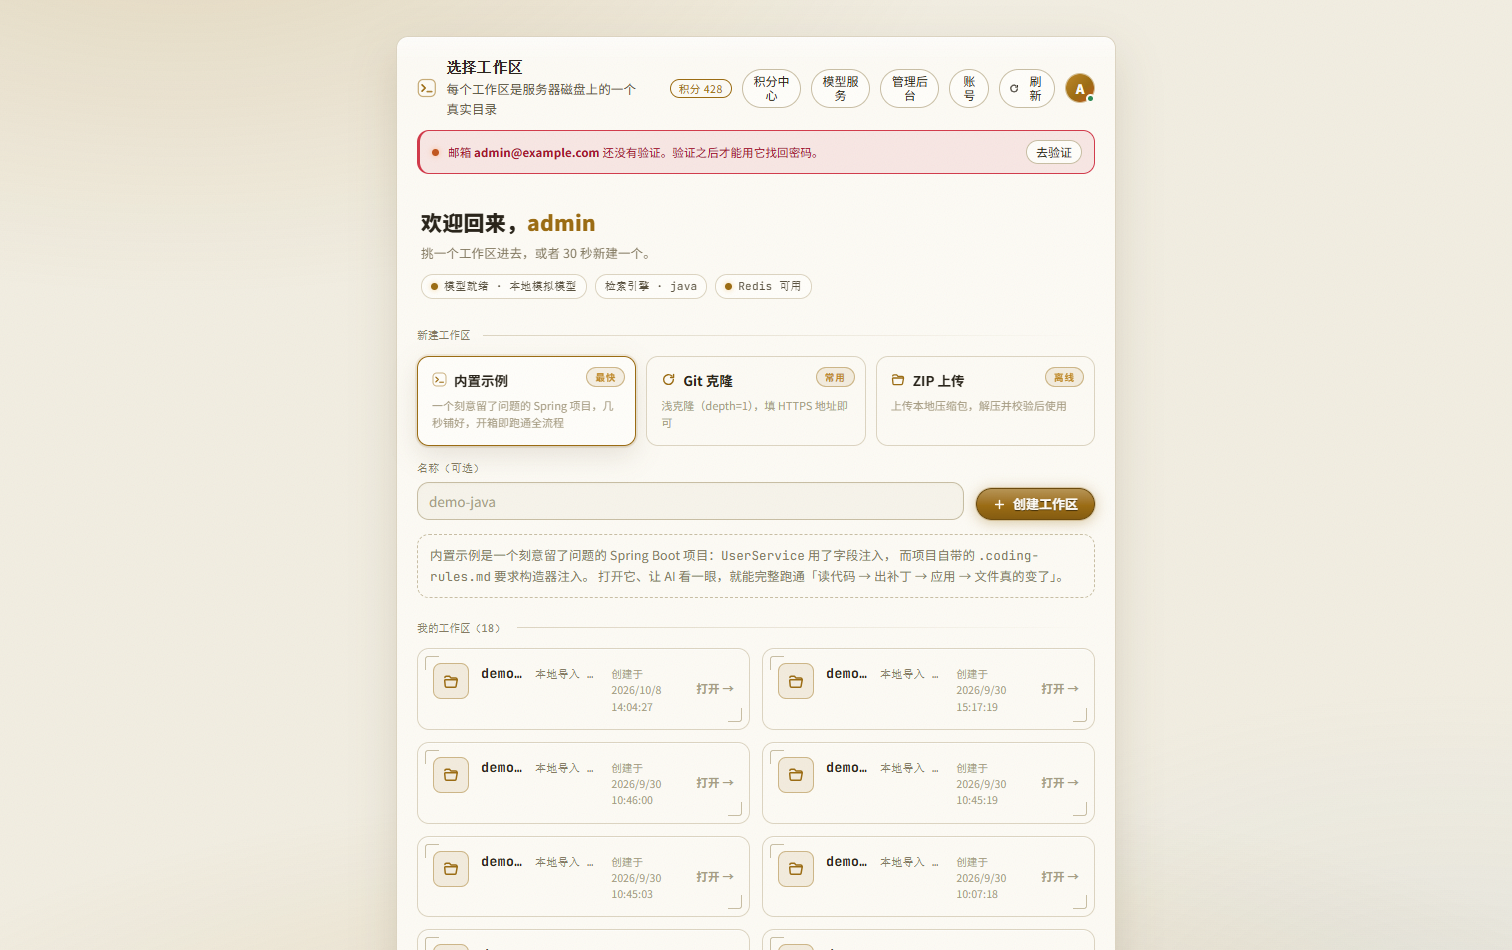
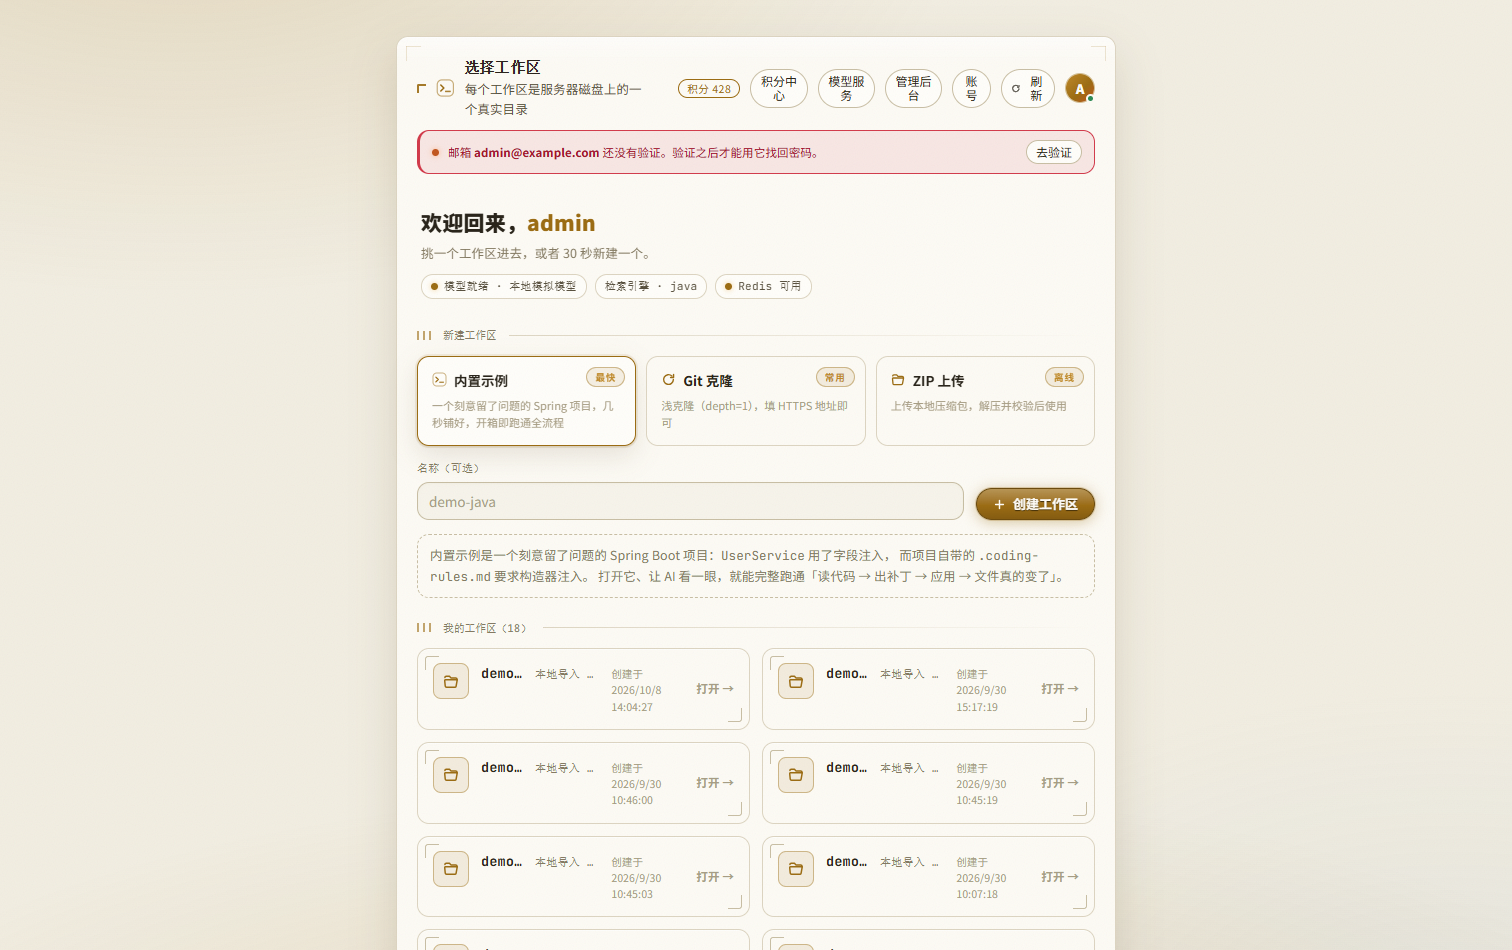
批28 全站格调：档案卡/取景框语言推广到二级页
- .card / .ac-card / .md-card 四角取景框刻线（静默灰金 0.4，hover 对焦提亮 0.95）
- 卡头（.card-head / .ac-card-head / .md-card-head）前置 7px 金 L 帧标
- .section-divider 前置三格胶片刻度块
- 管理后台详情抽屉 .ad-drawer-panel 左缘金渐变线（片盒）
- 覆盖：账号与安全 / 模型服务 / 管理后台 / 令牌页等全部二级页
- 契约剧本 30/35/46 零错误；实拍 75-style-account / 76-style-models / 79-style-admin-drawer

Changed region(s): [[0.2798, 0.0611, 0.6839, 0.1221], [0.2798, 0.6411, 0.3419, 0.6716], [0.2798, 0.3358, 0.3419, 0.3663]]

diff --git a/frontend/src/styles/global.css b/frontend/src/styles/global.css
@@ -8009,3 +8009,87 @@ body {
 .topbar {
   z-index: 50;
 }
+
+/* ═══════════════════════════════════════════════════════════════════
+   批28「全站格调」：把档案卡/取景框语言推广到二级页
+   ① .card / .ac-card / .md-card 四角取景框（hover 对焦提亮）
+   ② 卡头前置微型帧标（与助手消息帧标同语言）
+   ③ 分节割线前置胶片刻度块
+   ④ 助手抽屉左缘金渐变线（片盒）
+   ═══════════════════════════════════════════════════════════════════ */
+
+/* ── 1. 档案卡四角：静默灰金，hover 对焦变金 ── */
+.card,
+.ac-card,
+.md-card {
+  position: relative;
+}
+
+.card::after,
+.ac-card::after,
+.md-card::after {
+  content: '';
+  position: absolute;
+  inset: 9px;
+  pointer-events: none;
+  background:
+    linear-gradient(var(--signal-line), var(--signal-line)) 0 0 / 15px 1px,
+    linear-gradient(var(--signal-line), var(--signal-line)) 0 0 / 1px 15px,
+    linear-gradient(var(--signal-line), var(--signal-line)) 100% 0 / 15px 1px,
+    linear-gradient(var(--signal-line), var(--signal-line)) 100% 0 / 1px 15px,
+    linear-gradient(var(--signal-line), var(--signal-line)) 0 100% / 15px 1px,
+    linear-gradient(var(--signal-line), var(--signal-line)) 0 100% / 1px 15px,
+    linear-gradient(var(--signal-line), var(--signal-line)) 100% 100% / 15px 1px,
+    linear-gradient(var(--signal-line), var(--signal-line)) 100% 100% / 1px 15px;
+  background-repeat: no-repeat;
+  opacity: 0.4;
+  transition: opacity var(--dur-2) var(--ease-soft);
+}
+
+.card:hover::after,
+.ac-card:hover::after,
+.md-card:hover::after {
+  opacity: 0.95;
+}
+
+/* ── 2. 卡头帧标：金 L 角，标记「这是档案的封面」── */
+.card-head::before,
+.ac-card-head::before,
+.md-card-head::before {
+  content: '';
+  flex: none;
+  width: 7px;
+  height: 7px;
+  border-top: 2px solid var(--signal);
+  border-left: 2px solid var(--signal);
+  border-top-left-radius: 2px;
+  opacity: 0.9;
+}
+
+/* ── 3. 分节割线：前置三格胶片刻度 ── */
+.section-divider::before {
+  content: '';
+  flex: none;
+  width: 14px;
+  height: 9px;
+  background: repeating-linear-gradient(
+    90deg,
+    var(--signal) 0 2px,
+    transparent 2px 6px
+  );
+  opacity: 0.6;
+}
+
+/* ── 4. 抽屉片盒：左缘金渐变线，光从盒缝里透出来 ── */
+.ad-drawer-panel::before {
+  content: '';
+  position: absolute;
+  left: 0;
+  top: 0;
+  bottom: 0;
+  width: 2px;
+  background: linear-gradient(180deg, var(--signal), transparent 85%);
+  opacity: 0.7;
+  pointer-events: none;
+  z-index: 1;
+}
